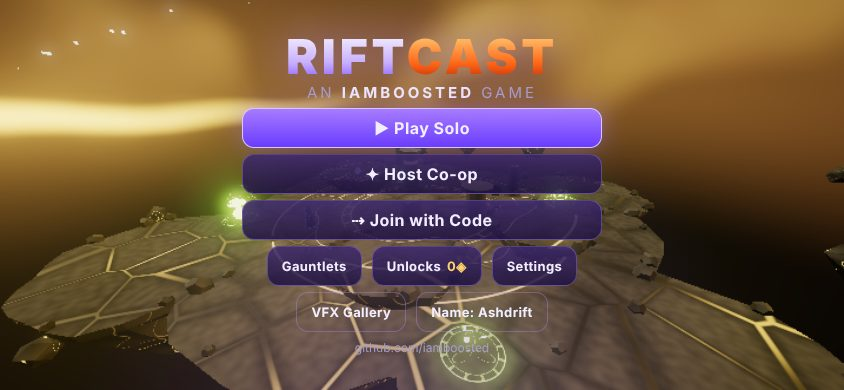
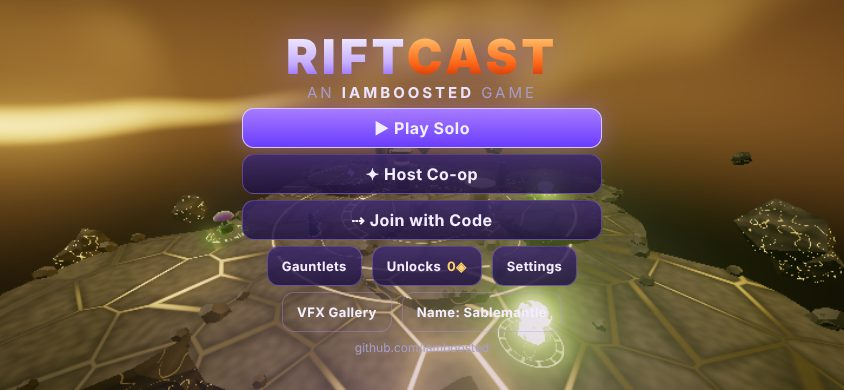
Screenshot suite results (all presets + iPhone touch pass), venom glob meshes, lit smoke impostors, gallery juice damping, leak fixes, STATUS.md
Claude-Session: https://claude.ai/code/session_01TUG1AgoEnVrAjBxWzabx94

diff --git a/src/vfx/projmesh.ts b/src/vfx/projmesh.ts
@@ -18,12 +18,14 @@ export interface ProjLike {
 
 /**
  * Solid silhouettes for physical projectiles: tumbling rocks and boulders (Stone), velocity-aligned ice
- * crystals (Frost). Two instanced draw calls rebuilt each frame from the visual projectile list.
+ * crystals (Frost), crescent blades (Gale). Three instanced draw calls rebuilt each frame from the visual projectile list.
  */
 export class ProjMeshes {
   group = new THREE.Group();
   private rocks: THREE.InstancedMesh;
   private ice: THREE.InstancedMesh;
+  private blades: THREE.InstancedMesh;
+  private goo: THREE.InstancedMesh;
   private dummy = new THREE.Object3D();
   private q = new THREE.Quaternion();
   private up = new THREE.Vector3(0, 1, 0);
@@ -43,7 +45,29 @@ export class ProjMeshes {
     im.colorNode = vec3(0.4, 0.75, 1.0).mul(0.4);
     im.emissiveNode = vec3(0.6, 1.0, 1.6).mul(fres.mul(2.5).add(0.6));
     this.ice = new THREE.InstancedMesh(ig, im, max);
-    for (const m of [this.rocks, this.ice]) {
+    // Gale crescent: half-torus, thin at the tips (additive)
+    const bg = new THREE.TorusGeometry(0.75, 0.09, 6, 20, Math.PI);
+    const pa = bg.getAttribute('position') as THREE.BufferAttribute;
+    for (let i = 0; i < pa.count; i++) {
+      const a = Math.atan2(pa.getY(i), pa.getX(i));
+      const taper = Math.sin(Math.max(0, Math.min(Math.PI, a)));
+      const cx = Math.cos(a) * 0.75,
+        cy = Math.sin(a) * 0.75;
+      pa.setXYZ(i, cx + (pa.getX(i) - cx) * taper, cy + (pa.getY(i) - cy) * taper, pa.getZ(i) * taper);
+    }
+    bg.rotateX(-Math.PI / 2);
+    bg.translate(0, 0, -0.4);
+    const bm = new THREE.MeshBasicNodeMaterial({ transparent: true, depthWrite: false, blending: THREE.AdditiveBlending, side: THREE.DoubleSide });
+    bm.colorNode = vec3(0.7, 1.6, 1.25).mul(fres.mul(1.5).add(0.6));
+    this.blades = new THREE.InstancedMesh(bg, bm, max);
+    // Venom: glossy wobbling globs (flasks use the same mesh, stretched into a bottle-ish ovoid)
+    const gg = new THREE.IcosahedronGeometry(1, 2);
+    const gm = new THREE.MeshStandardNodeMaterial({ roughness: 0.15, metalness: 0 });
+    const gn = mx_noise_float(positionLocal.mul(2.5)).mul(0.5).add(0.5);
+    gm.colorNode = mix(vec3(0.25, 0.55, 0.05), vec3(0.45, 0.12, 0.6), smoothstep(0.55, 0.8, gn));
+    gm.emissiveNode = vec3(0.6, 1.3, 0.15).mul(fres.mul(1.6).add(smoothstep(0.6, 0.9, gn).mul(1.2)).add(0.2));
+    this.goo = new THREE.InstancedMesh(gg, gm, max);
+    for (const m of [this.rocks, this.ice, this.blades, this.goo]) {
       m.instanceMatrix.setUsage(THREE.DynamicDrawUsage);
       m.count = 0;
       m.frustumCulled = false;
@@ -53,7 +77,9 @@ export class ProjMeshes {
 
   update(list: Iterable<ProjLike>): void {
     let nr = 0,
-      ni = 0;
+      ni = 0,
+      nb = 0,
+      ng = 0;
     for (const p of list) {
       if (p.spell === 'pebble' || p.spell === 'boulder') {
         if (nr >= this.rocks.instanceMatrix.count) continue;
@@ -64,6 +90,22 @@ export class ProjMeshes {
         this.dummy.scale.setScalar(s);
         this.dummy.updateMatrix();
         this.rocks.setMatrixAt(nr++, this.dummy.matrix);
+      } else if (p.spell === 'glob' || p.spell === 'flask') {
+        if (ng >= this.goo.instanceMatrix.count) continue;
+        const w = Math.sin(p.age * 22 + p.id) * 0.18;
+        const base = p.spell === 'flask' ? 0.32 : 0.26;
+        this.dummy.position.set(p.x, p.y, p.z);
+        this.dummy.rotation.set(p.age * 6, Math.atan2(p.vx, p.vz), 0);
+        this.dummy.scale.set(base * (1 + w), base * (p.spell === 'flask' ? 1.5 : 1) * (1 - w), base * (1 + w));
+        this.dummy.updateMatrix();
+        this.goo.setMatrixAt(ng++, this.dummy.matrix);
+      } else if (p.spell === 'gust') {
+        if (nb >= this.blades.instanceMatrix.count) continue;
+        this.dummy.position.set(p.x, p.y, p.z);
+        this.dummy.rotation.set(0, Math.atan2(p.vx, p.vz) + Math.PI, Math.sin(p.age * 30 + p.id) * 0.35);
+        this.dummy.scale.setScalar(1 + Math.min(0.6, p.age * 1.5));
+        this.dummy.updateMatrix();
+        this.blades.setMatrixAt(nb++, this.dummy.matrix);
       } else if (p.spell === 'shard' || p.spell === 'lance') {
         if (ni >= this.ice.instanceMatrix.count) continue;
         this.dir.set(p.vx, p.vy, p.vz).normalize();
@@ -77,6 +119,10 @@ export class ProjMeshes {
         this.ice.setMatrixAt(ni++, this.dummy.matrix);
       }
     }
+    this.goo.count = ng;
+    this.goo.instanceMatrix.needsUpdate = true;
+    this.blades.count = nb;
+    this.blades.instanceMatrix.needsUpdate = true;
     this.rocks.count = nr;
     this.ice.count = ni;
     this.rocks.instanceMatrix.needsUpdate = true;

diff --git a/src/vfx/fx.ts b/src/vfx/fx.ts
@@ -213,7 +213,7 @@ export class Fx {
         break;
       case 'stone':
         this.e('blend', { x, y, z, count: 14 * s, spread: 8 * s, vx: dvx, vy: dvy + 4, vz: dvz, life: 1.0, lifeVar: 0.4, size: 0.22 * s, sizeVar: 0.5, color: 0x9a7a5a, colorEnd: 0x6a5240, gravity: 22, drag: 0.6, shape: SHAPE.rock, spin: 8, floorY: fy + 0.08, bounce: 0.35 });
-        this.e('blend', { x, y, z, count: 8 * s, spread: 2.5, mode: 2, life: 1.2, lifeVar: 0.4, size: 0.7 * s, sizeEnd: 2.2 * s, color: 0x8a7258, colorEnd: 0x5a4a3a, alpha: 0.5, drag: 2, gravity: -0.3, turb: 1, shape: SHAPE.smoke, spin: 1 });
+        this.e('blend', { x, y, z, count: 8 * s, spread: 2.5, mode: 2, life: 1.2, lifeVar: 0.4, size: 0.7 * s, sizeEnd: 2.2 * s, color: 0xb0a088, colorEnd: 0x7a6a58, alpha: 0.42, drag: 2, gravity: -0.3, turb: 1, shape: SHAPE.smoke, spin: 1 });
         this.e('add', { x, y, z, count: 8 * s, spread: 7, life: 0.3, size: 0.07, color: c.core, colorEnd: c.main, intensity: 4, gravity: 10, shape: SHAPE.spark, stretch: 4 });
         break;
       case 'venom':
@@ -414,7 +414,7 @@ export class Fx {
     this.distort?.burst(x, gy + 1, z, r * 2.5, 1.0, 0.55);
     this.decals.rune.addTransient({ x, y: gy, z, sx: r * 0.8, sz: r * 0.8, rot: 0, d: [0, 0, 1.5, Math.random() * 10], color: new THREE.Color(c.main) }, 1.0);
     this.juice.shake(0.35);
-    this.lights.flash(x, gy + 1.5, z, c.main, 70, r * 3, 0.6);
+    this.lights.flash(x, gy + 1.5, z, c.main, el === 'frost' ? 35 : 60, r * 3, 0.6);
     if (el === 'frost') this.ice.burst(x, gy, z, r * 0.85, 34, 2.4, 3);
     switch (el) {
       case 'fire':
@@ -425,8 +425,8 @@ export class Fx {
       case 'frost':
         this.e('add', { x, y: gy + 0.3, z, count: 140, spread: 2, posSpread: r, mode: 3, life: 1.2, lifeVar: 0.4, size: 0.5, sizeEnd: 0.0, color: c.core, colorEnd: c.main, intensity: 3.5, gravity: -2, turb: 1.5, shape: SHAPE.shard, spin: 2 });
         this.e('add', { x, y: gy + 4, z, count: 120, spread: 1.5, posSpread: r, mode: 3, vy: -3, life: 1.6, size: 0.18, color: 0xffffff, colorEnd: c.main, intensity: 3, gravity: 2, turb: 2, shape: SHAPE.flake, spin: 2, floorY: gy });
-        this.e('add', { x, y: gy + 1, z, count: 2, life: 0.25, size: r * 3, sizeEnd: r, color: c.core, colorEnd: c.main, intensity: 2.5, shape: SHAPE.glow });
-        this.juice.flash(0x9fe8ff, 0.25);
+        this.e('add', { x, y: gy + 1, z, count: 1, life: 0.22, size: r * 2.6, sizeEnd: r, color: c.core, colorEnd: c.main, intensity: 1.3, shape: SHAPE.glow });
+        this.juice.flash(0x9fe8ff, 0.15);
         break;
       case 'gale':
         this.e('add', { x, y: gy + 0.5, z, count: 80, spread: r * 2.6, mode: 1, life: 0.55, size: 1.6, sizeEnd: 2.4, color: c.core, colorEnd: c.main, intensity: 1.5, alpha: 0.6, drag: 3, turb: 6, shape: SHAPE.wisp, spin: 8 });

diff --git a/src/render/view.ts b/src/render/view.ts
@@ -110,7 +110,10 @@ export class GameView {
     this.fx.ground = this.ground;
     for (const w of this.walls.values()) this.root.remove(w);
     this.walls.clear();
-    for (const [, e] of this.enemies) this.root.remove(e.rig.root);
+    for (const [, e] of this.enemies) {
+      this.root.remove(e.rig.root);
+      disposeGeometries(e.rig.root);
+    }
     this.enemies.clear();
   }
 
@@ -451,6 +454,7 @@ export class GameView {
       v.rig.root.position.y -= dt * 0.4;
       if (v.dying > 0.65) {
         this.root.remove(v.rig.root);
+        disposeGeometries(v.rig.root);
         this.enemies.delete(id);
       }
     }
@@ -481,6 +485,7 @@ export class GameView {
       if (!ids.has(id)) {
         this.fx.burst('stone', m.position.x, m.position.y + 1, m.position.z, 1.5);
         this.root.remove(m);
+        m.geometry.dispose();
         this.walls.delete(id);
       }
     }
@@ -528,6 +533,9 @@ export class GameView {
     for (const [id, o] of this.pickups) {
       if (!ids.has(id)) {
         this.root.remove(o);
+        const m = o as THREE.Mesh;
+        m.geometry?.dispose();
+        (m.material as THREE.Material | undefined)?.dispose();
         this.pickups.delete(id);
       }
     }
@@ -540,6 +548,11 @@ export class GameView {
   update(dt: number, camera: THREE.Camera) {
     this.fx.update(dt, camera);
   }
+}
+
+/** Actor geometry is built per instance (materials are shared), so free it when the actor goes away. */
+function disposeGeometries(root: THREE.Object3D) {
+  root.traverse((o) => (o as THREE.Mesh).geometry?.dispose());
 }
 
 export { wallEnds };

diff --git a/src/gallery/main.ts b/src/gallery/main.ts
@@ -43,6 +43,16 @@ async function main() {
   await gfx.init(document.getElementById('c') as HTMLCanvasElement, q ?? undefined);
   const shake = { trauma: 0, fovKick: 0, shake(a: number) { this.trauma = Math.min(1, this.trauma + a); } };
   const view = new GameView(gfx, shake as unknown as CameraRig);
+  // stations overlap by design, so full-screen juice is damped here (the game keeps full strength)
+  view.fx.setJuice({
+    shake: (a) => shake.shake(a * 0.4),
+    flash: (c, a) => {
+      gfx.u.flash.value.set(c);
+      gfx.u.flashAmt.value = Math.max(gfx.u.flashAmt.value, a * 0.12);
+    },
+    hitstop: (ms) => view.hitstop(ms * 0.5),
+    aberration: (a) => (gfx.u.ca.value = Math.max(gfx.u.ca.value, a * 0.3)),
+  });
   const audio = new GameAudio();
   let sound = false;
 

diff --git a/src/render/arena.ts b/src/render/arena.ts
@@ -100,7 +100,7 @@ export class Arena {
     const starMask = step(0.9965, rnd).mul(smoothstep(-0.05, 0.25, h)).mul(twinkle.mul(0.7).add(0.3));
     // rift band: a glowing tear across the sky
     const band = abs(dir.y.sub(dir.x.mul(0.35)).sub(0.32).add(mx_noise_float(dir.mul(3)).mul(0.04)));
-    const rift = smoothstep(0.05, 0.0, band).mul(smoothstep(-0.6, 0.6, dir.z)).mul(1.8);
+    const rift = smoothstep(0.05, 0.0, band).mul(smoothstep(-0.6, 0.6, dir.z)).mul(1.25);
     skyMat.colorNode = base.add(nebCol.mul(nebMask).mul(0.5)).add(vec3(starMask.mul(2.2))).add(vec3(this.uAccent).mul(rift));
     this.sky = new THREE.Mesh(new THREE.SphereGeometry(400, 32, 16), skyMat);
     this.sky.renderOrder = -10;

diff --git a/src/vfx/particles.ts b/src/vfx/particles.ts
@@ -341,7 +341,12 @@ export class ParticleSystem {
     if (opts.additive) {
       m.colorNode = vec4(col.mul(tex.rgb).mul(a), a);
     } else {
-      m.colorNode = vec4(col.mul(tex.rgb), a);
+      // sphere-impostor shading: treat the sprite as a lit hemisphere so smoke/dust/rocks read as volumes
+      const c = uv().mul(2).sub(1);
+      const nz = sqrt(max(float(0), float(1).sub(c.dot(c))));
+      const lambert = clamp(vec3(c.x, c.y, nz).dot(vec3(0.35, 0.75, 0.56)), 0, 1);
+      const rim = float(1).sub(nz).mul(0.25);
+      m.colorNode = vec4(col.mul(tex.rgb).mul(lambert.mul(0.75).add(0.45).add(rim)), a);
     }
     return m;
   }

diff --git a/STATUS.md b/STATUS.md
@@ -1,5 +1,150 @@
-# Status
+# Riftcast — Status
 
-**Live:** https://iamboosted.github.io/riftcast/ (deploying)
+**Live:** https://iamboosted.github.io/riftcast/  ·  **VFX gallery:** https://iamboosted.github.io/riftcast/vfx-gallery/
 
-Work in progress. See DECISIONS.md.
+Deployed by GitHub Actions from `main` (mirrored from `master`). Every push runs gitleaks, the test suite and a production build before deploying. The deploy job's success is the deploy confirmation: this sandbox's network policy blocks `*.github.io`, so I couldn't load the live page from here.
+
+## What works
+
+**Core loop (solo and co-op)**
+- Title → (solo | host | join by code or link) → 7-room run (combat, combat, elite, combat, combat, elite, boss) → victory or defeat → shards → unlocks.
+- Reward screen after every room: pick 1 of 3 personal boons (sometimes a gauntlet find) and vote on 1 of 3 team boons.
+- Meta progression in localStorage (try/catch everywhere): shards, gauntlet unlocks (Fire/Frost/Storm start unlocked), rare-boon unlocks and run records.
+
+**Combat**
+- 6 gauntlets × (primary / charged heavy / signature) = 18 spells. You equip two and swap mid-fight.
+- 14 data-driven interactions in `src/data/combos.json`:
+  - Gale vortex + Fire/Venom/Frost/Storm → Firestorm, Toxic Tempest, Blizzard, Thunderhead
+  - Fire + venom → Detonation, which chains between clouds
+  - Storm + water/frost → Chain Surge across the puddle network
+  - Stone + frozen → Shatter
+  - Fire + frost → Steam Burst (blinds)
+  - Frost + puddle → Flash Freeze
+  - Storm + wet → Conduction
+  - Walls block projectiles, reflect Gale, and turn to Magma Walls when hit with Fire
+- Combos credit every contributor, show a big COMBO callout with their names, and trigger hit-stop, CA and a stinger.
+
+**Movement**
+- Fast strafing, double jump, hover, dash with i-frames and afterimages.
+- Rune pickups: Blink (dash teleports), Glide (long hover), Rocket (double jump blasts).
+- Edge guard: walking never carries you off an island; jumping or dashing off still does.
+
+**Enemies**
+- 3 factions × 3 archetypes with procedural silhouettes and per-faction weaknesses/resistances: Cinderborn, Glasswing Swarm, Mirehollow.
+- Telegraphed circle/ring/line/cone ground decals that fill toward impact. Jumping clears rings and lines.
+
+**Bosses**
+- *Ignavar, the Kiln Heart* and *Sylvara, the Hollow Prism*, each with 3 phases.
+- Phase gating: bursts can't skip phases. Each transition plays an invulnerable shockwave.
+
+**Down / revive**
+- 30 s bleed-out. Standing next to a downed ally auto-channels the revive (works with no extra button on touch).
+- Solo gets one Second Wind per run and scaled enemy HP/damage.
+
+**VFX pipeline**
+- **Particles:** TSL compute (spawn kernel + update kernel over storage buffers) with an identical CPU path on WebGL2. Curl-style turbulence, 4 attractors, floor bounce, colour/size over life, velocity-stretched sparks, soft particles on High+.
+- **Shader toolkit:**
+  - Fresnel rims and noise-threshold dissolve with a glowing edge
+  - Scrolling-noise ribbons
+  - Branching lightning (recursive midpoint displacement + forks)
+  - Instanced shockwave rings and domes
+  - Heat-distortion billboards
+  - Procedural decals: scorch with cooling embers, voronoi frost, bubbling ooze, rippling water, electric arcs, rune circles, telegraphs
+  - Erupting instanced ice/rock spikes
+  - Solid projectile meshes (rocks, rolling boulder, ice crystals, gale crescents)
+  - Pooled dynamic point lights
+- **Post:** HDR bloom, chromatic aberration spiking on big hits, trauma camera shake, hit-stop, screen flashes, hurt vignette, desaturate while downed.
+- **Quality presets:** Low/Med/High/Ultra with auto-detect (mobile → Low) and dynamic resolution (0.6–1.0×) to hold 60 fps.
+- **`/vfx-gallery`:** 42 looping stations (18 spells, 12 combos, 6 impacts, 6 misc incl. telegraphs, dash/blink, spawn/death, co-op feedback, both bosses). It has slow-mo, particle/draw/fps readout, a quality switch, category jumps, drag-to-pan and ± zoom, and a 2-column layout on phones.
+
+**Audio:** fully procedural WebAudio:
+- Per-element cast/impact voices
+- Thunder, combo stingers, UI cues
+- Ambient drone + wind bed, plus a combat pulse that follows intensity
+- Unlocks on first tap (iOS). Mute is in Settings or on M.
+
+**Multiplayer**
+- Trystero WebRTC behind a `Transport` interface; host-authoritative.
+- Clients predict movement (with reconciliation) and primary shots (adopted by host copies); everyone else interpolates 100 ms behind.
+- Room code + share link (native share sheet when available), ready-up lobby, drop-in between rooms (late joiners spectate a teammate).
+- Quick-chat pings (here/attack/help/combo) with 3D beacons and edge-clamped labels; long-press ping wheel on touch.
+
+**Controls**
+- Mouse/keyboard with pointer lock (losing the lock pauses), plus gamepad.
+- Full touch: twin sticks, hold-to-autofire, hold-to-charge, drag-to-aim on cast buttons, aim assist, all buttons thumb-sized off-centre and safe-area aware.
+- Tap menus everywhere.
+- iOS hardening: no pinch/double-tap zoom, rubber-band or selection; portrait rotate prompt; PWA manifest (fullscreen, landscape).
+
+**Perf overlay** (Settings or F3): fps, backend, preset + DPR, particles (GPU/CPU), draw calls, enemies/zones/projectiles, net peers/RTT/kbps/snapshot rate/pending inputs.
+
+## Tests (`npm test`, 42 passing)
+
+- **Multiplayer integration** (`tests/net.test.ts`): host + 3 clients on the lossy loopback (45 ms ± 15 ms, 8% loss on unreliable channels).
+  - Convergent state through a scripted room (enemies, HP, positions; predicted local player within 0.25 m)
+  - Cross-caster Firestorm credited to both casters and seen by every client
+  - Host damage authority vs forged events, snapshots, commands and absurd inputs
+  - Downed → walk over → channel revive
+  - Mid-run drop-in joining at the next room
+  - Prediction adoption with no doubled projectiles
+  - Host-leave notice
+- **Unit** (`tests/unit.test.ts`): combo table shape, resolution and priority; end-to-end combo credit; melt → puddle → electrify chain; boon stacking (sum/multiply, caps, max stacks, deterministic rolls); seeded room determinism; geometry independent of player count; damage math; touch layout (4 phone sizes: on-screen, safe areas, no overlap, centre clear), stick mapping, look/rim turn; lightning determinism; telegraph shapes; input sanitising; movement (ledges, hover, edge guard).
+- **Full runs** (`tests/run.test.ts`): a boosted bot clears all 7 rooms and both bosses through 3 phases; every gauntlet casts all 3 slots.
+
+## Screenshots (Playwright + Chromium, WebGPU on SwiftShader)
+
+`node scripts/screenshots.mjs` (after `npm run build && npx vite preview --port 4173`) writes to `screenshots/`:
+- `gallery-{low,medium,high,ultra}.jpg`: gallery stations frozen on their key moments
+- `combat-{low,medium,high,ultra}.jpg`: a staged combat moment with the bot mage casting
+- `mobile-title.jpg`, `mobile-combat-touch.jpg`: iPhone-landscape viewport (844×390) with touch emulation
+
+The mobile pass taps *Play Solo*, then drives the left stick and holds the primary button while dragging to aim. It asserts that the stick moved the mage, the aim turned, casts fired and all 7 touch buttons rendered. Results are in `screenshots/report.json`.
+
+**Latest run:** all 8 preset shots + 3 mobile shots captured with **zero page errors** on WebGPU (compute particles active at every preset). Mobile touch run: `pass: true`:
+- *Play Solo* reached via tap
+- Left stick read (moveY > 0.3) and moved the mage 32 m
+- Primary held for the whole drag; drag-on-primary turned the aim 0.28 rad
+- 136 casts fired; 7/7 touch buttons rendered
+- The WebGL2 fallback (`?webgl`, CPU particles) was also rendered and checked during development.
+
+## Perf numbers
+
+There's no physical GPU in this environment; Chromium renders WebGPU through SwiftShader on the CPU, so fps here (0.2–4) says nothing about real devices. What I could measure:
+
+| Measure | Result |
+|---|---|
+| CPU per frame (JS, all systems, ~5 enemies, High) | ~4.8 ms: view sync 2.7, render submit 1.1, particle command packing 0.5, HUD 0.06 |
+| Host sim tick (4 players, 12–24 enemies, zones, spells firing) | 0.73 ms avg |
+| Snapshot (4 players, 14 enemies, 8 zones) | 2.6 KB → ~320 kbit/s per client at 15 Hz (meta only on change) |
+| Draw calls in combat | ~50–80 (particles 2, all decals 8, rings 2, strips 1, cores 1, spikes 2, projectile meshes 3) |
+| Particle pools | GPU 16k / 32k / 64k / 131k (Low → Ultra); CPU fallback 4k / 8k / 12k / 16k |
+
+**Expected on real hardware.** Untested:
+- A mid laptop at Medium: comfortably 60 fps. GPU cost is dominated by the noise-heavy floor/sky shaders and bloom at half resolution.
+- A recent iPhone: auto-picks Low (DPR ≤ 1, fewer noise octaves, 2 lights, 0.3× bloom), and dynamic resolution backs off further if frames exceed 19.5 ms.
+
+## What's rough
+
+- **Never run on a real iPhone or a real GPU.** Touch was verified only in Chromium's iPhone emulation, and 60 fps is a design target, not a measurement.
+- **Co-op over the real internet is untested.** Relays and NAT traversal can't be reached from this sandbox. All netcode logic is covered on the loopback transport, but strict NATs without TURN may fail to connect.
+- **Balance is first-pass.** Numbers were set by reasoning, not playtesting. The bot clears runs only with a damage boost.
+- **Animation is minimal:** bobbing, leaning, wing flaps and spinning parts, with no limb animation.
+- **Only the primary attack is predicted** on clients. Heavies and signatures appear after RTT/2.
+- **Enemy navigation is steering-only:** no pathfinding around ledges or walls.
+- **Audio has never been heard.** Everything is synthesised, and levels were set by reasoning.
+- **The gallery's showroom floor is a flat plain**, and stations very close together can bleed into each other's frame.
+
+## Weakest VFX (my honest ranking)
+
+1. **Steam Burst / venom clouds:** smoke is still sprite-based. Sphere-impostor shading gives it volume, but without soft depth on Low/Med it can read as stacked cards.
+2. **Venom pools:** now glossy wobbling glob/flask meshes in flight, but the ground pools are still a simple bubbling decal.
+3. **Shockwave domes:** fresnel shells read better than before but can still look like a translucent disc from above.
+4. **Stone dust:** the brownish alpha puffs are muddy against stone floors.
+5. **Telegraph decals on raised ledges** are drawn at the ledge height only; shapes overlapping a ledge edge don't drape.
+
+## Top 5 next steps
+
+1. **Real-device pass:** profile on an iPhone (Safari 26 WebGPU) and a mid laptop, then tune the presets, particle budgets and floor/sky shader cost from real numbers.
+2. **Netcode feel:** predict heavy/signature casts, add lag-compensated hit checks for fast projectiles, add host migration/reconnect, and add an optional TURN config for strict NATs.
+3. **Animation:** procedural limbs (IK arms for casting, gait for walkers), hit reactions and death poses.
+4. **Content depth:** elite modifiers, a third faction boss, more boons with build-defining synergies, room events (rift surges, treasure rooms) and a run map with branching.
+5. **Smoke/volumetrics upgrade:** lit, depth-faded volumetric puffs (sphere-impostor normals) for steam/venom/dust, and draped telegraphs via projected decals.

diff --git a/README.md b/README.md
@@ -40,6 +40,16 @@ Elements react through world state regardless of who cast them, and every contri
 
 The table lives in [`src/data/combos.json`](src/data/combos.json), so adding a combo is a data change.
 
+## Screenshots
+
+Captured automatically by `scripts/screenshots.mjs` (Playwright, WebGPU via SwiftShader):
+
+| Combat (High) | Combat (Ultra) |
+|---|---|
+| ![combat high](screenshots/combat-high.jpg) | ![combat ultra](screenshots/combat-ultra.jpg) |
+| **VFX gallery: Chain Surge (Low)** | **iPhone landscape, touch controls** |
+| ![gallery](screenshots/gallery-low.jpg) | ![mobile](screenshots/mobile-combat-touch.jpg) |
+
 ## Develop
 
 ```bash
